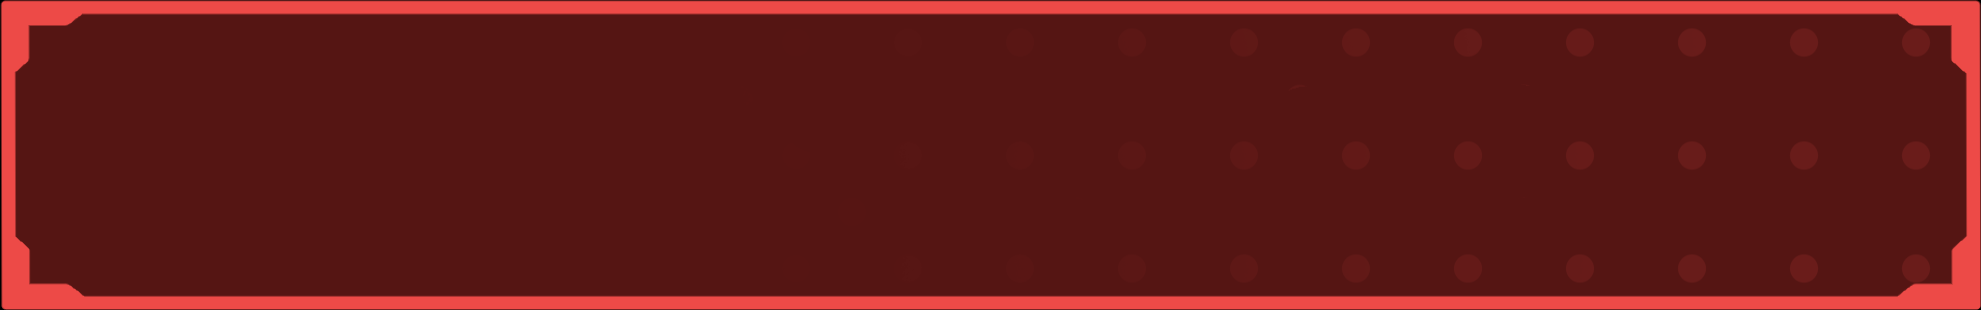
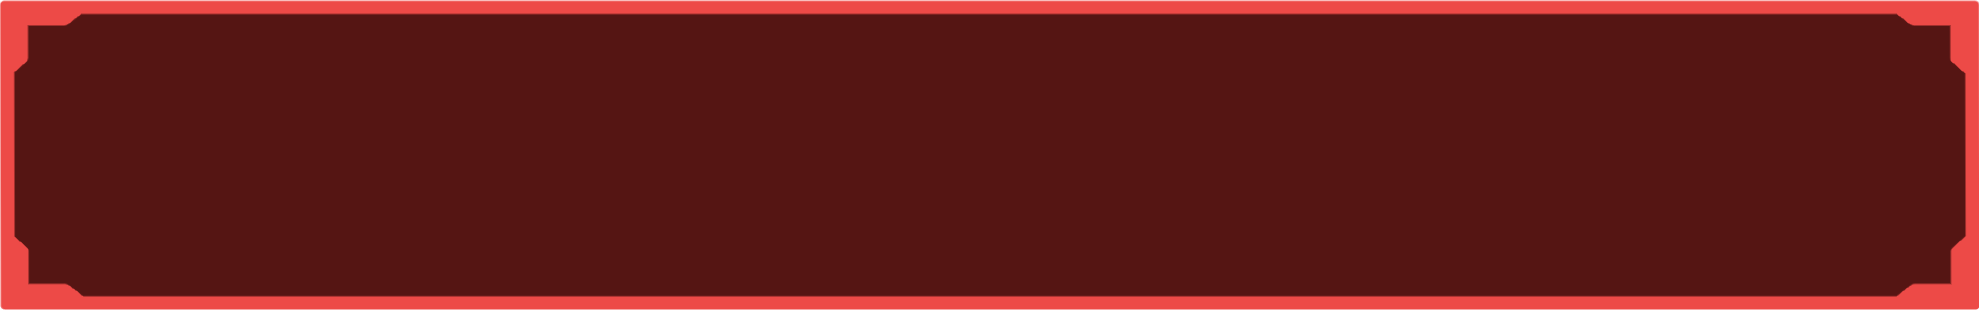
Edit graph + button choice

Changed region(s): [[0.0, 0.9871, 1.0, 1.0], [0.0, 0.0, 1.0, 0.029], [0.9864, 0.2032, 1.0, 0.7839]]

diff --git a/Assets/LangueDesCroix/Scripts/Managers/TranslationManager.cs b/Assets/LangueDesCroix/Scripts/Managers/TranslationManager.cs
@@ -10,7 +10,8 @@ public enum LANGUAGE
 public class TranslationManager : MonoBehaviour
 {
     public static TranslationManager Instance { get; private set; }
-    public LANGUAGE actualLanguage = LANGUAGE.French;
+
+    public LANGUAGE m_currentLanguage = LANGUAGE.French;
 
     private void Awake()
     {
@@ -19,13 +20,21 @@ public class TranslationManager : MonoBehaviour
             Destroy(this);
             return;
         }
-
-        Instance = this;
+        else
+        {
+            Instance = this;
+            DontDestroyOnLoad(this);
+        }
     }
     
     public LANGUAGE GetActualLanguage()
     {
-        return actualLanguage;
+        return m_currentLanguage;
+    }
+
+    public void SetCurrentLanguage(LANGUAGE language)
+    {
+        m_currentLanguage = language;
     }
 }
 
